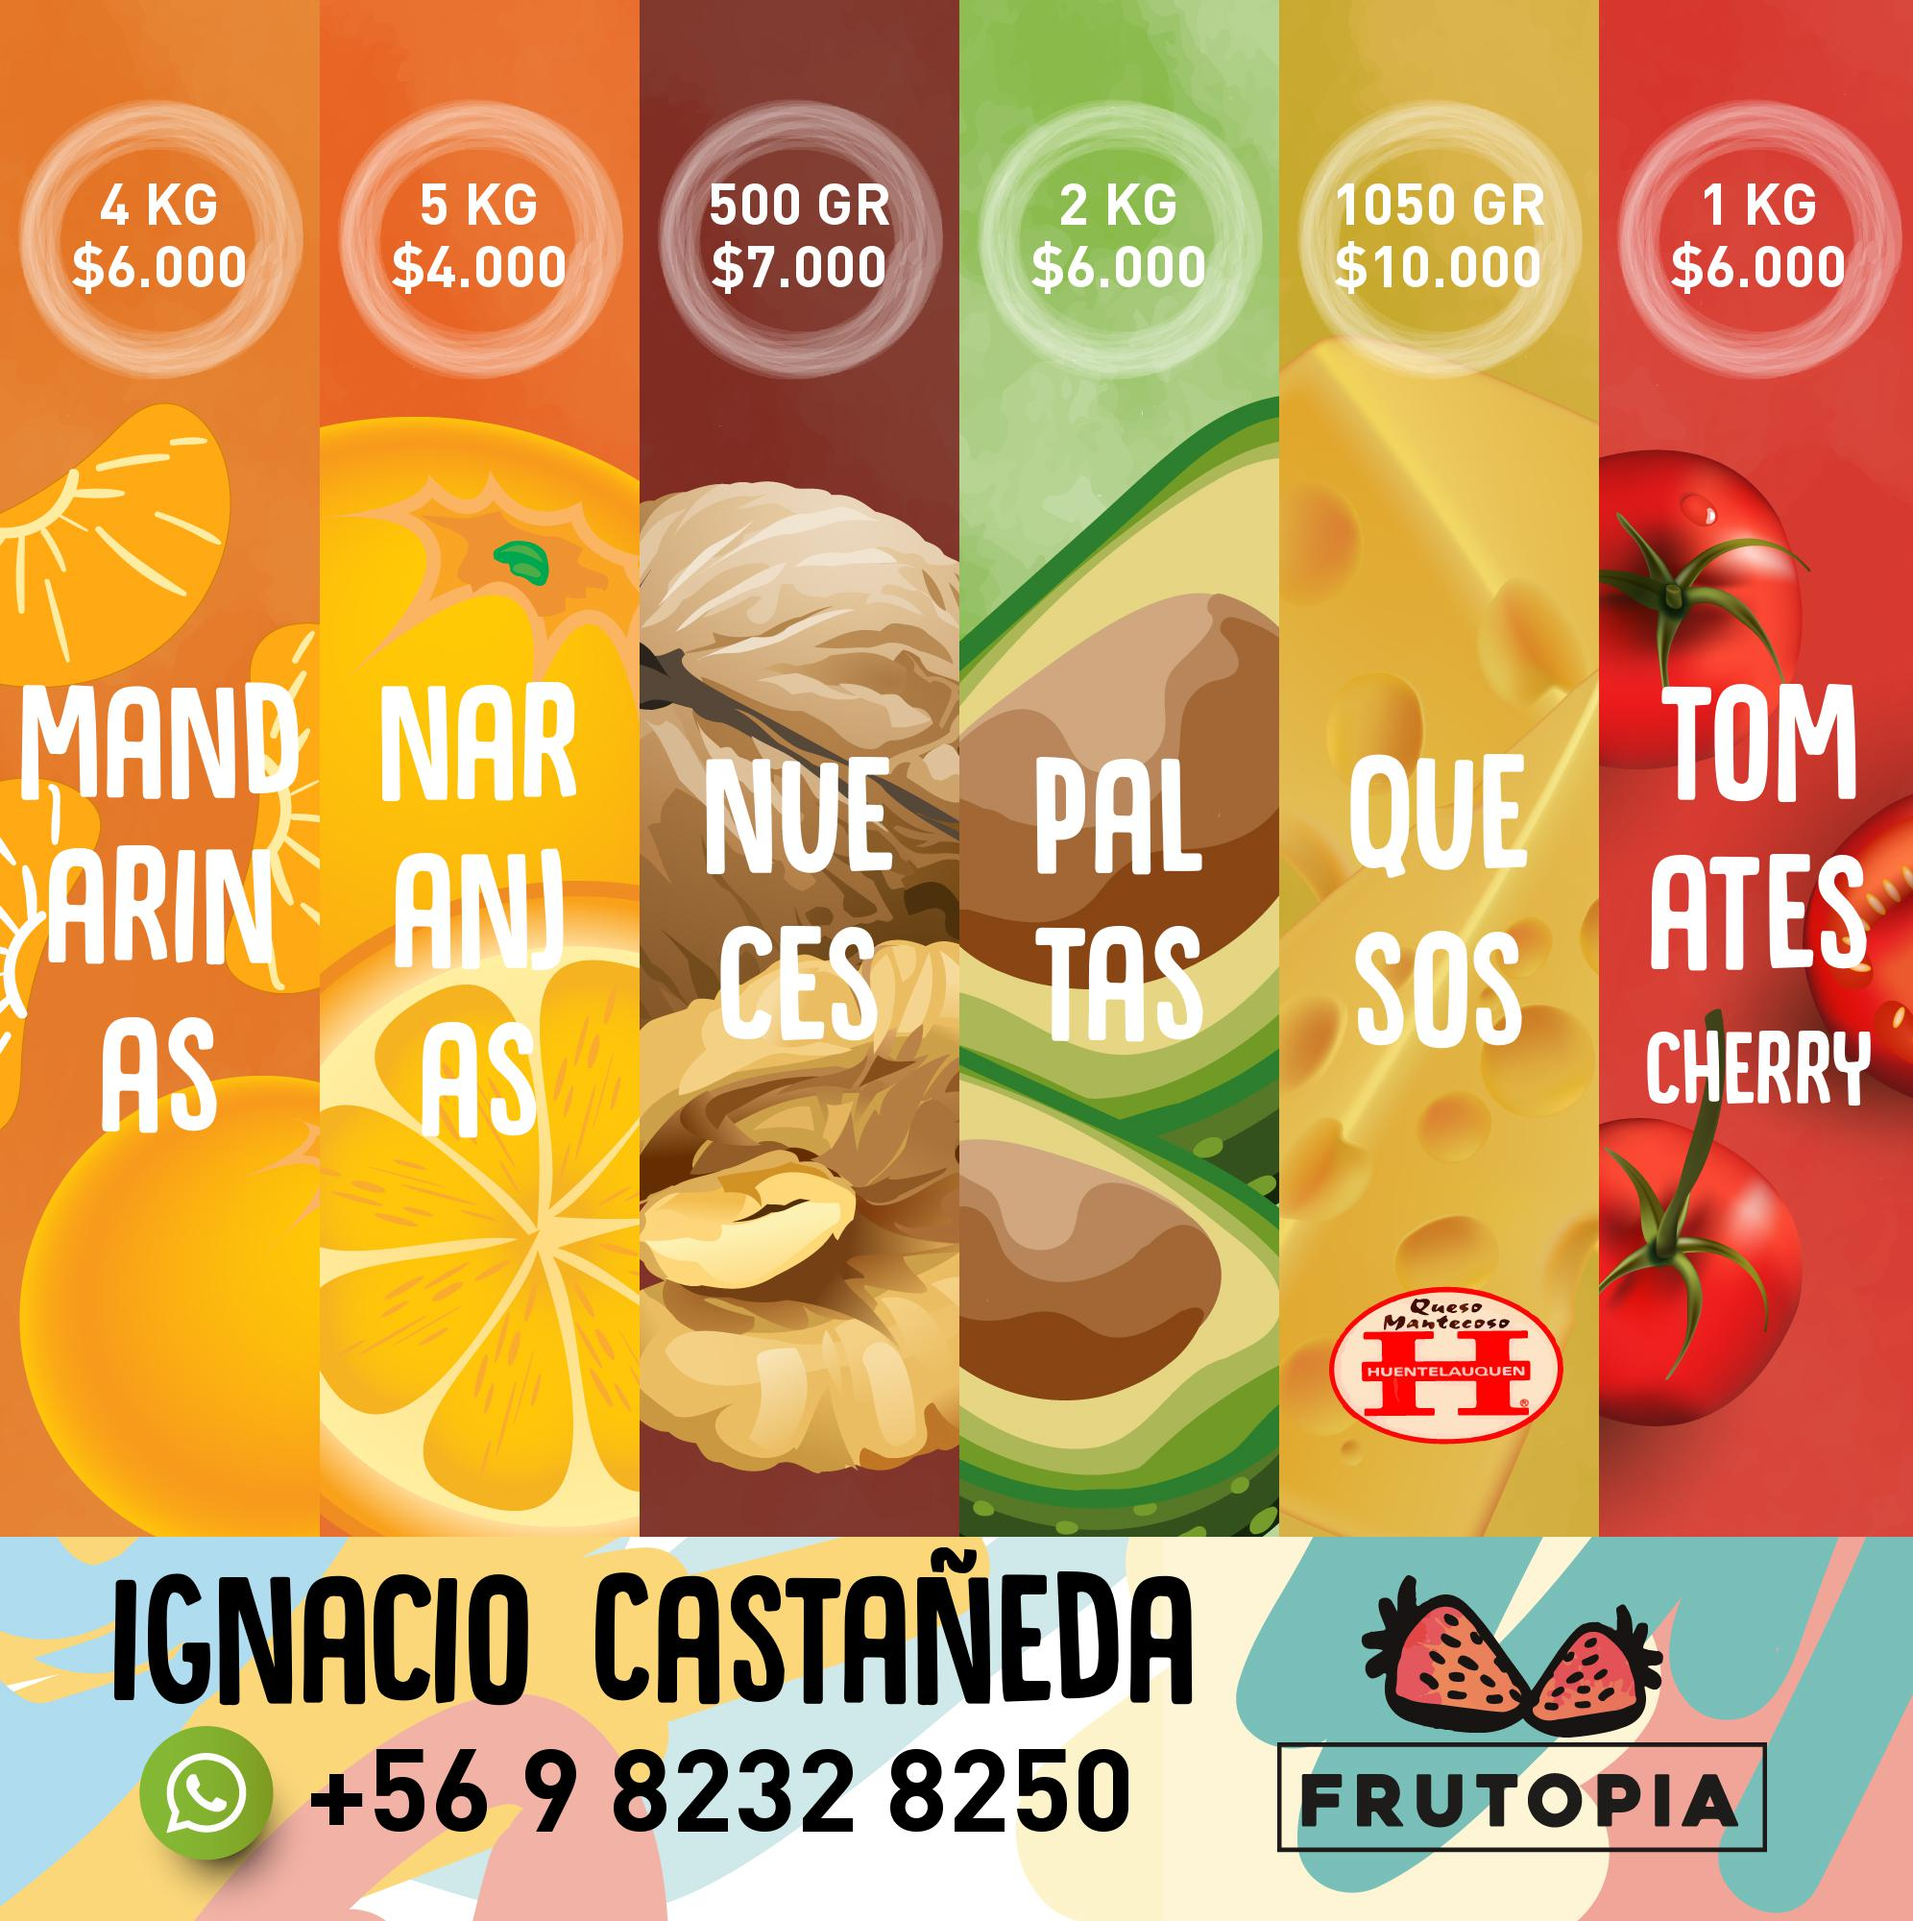
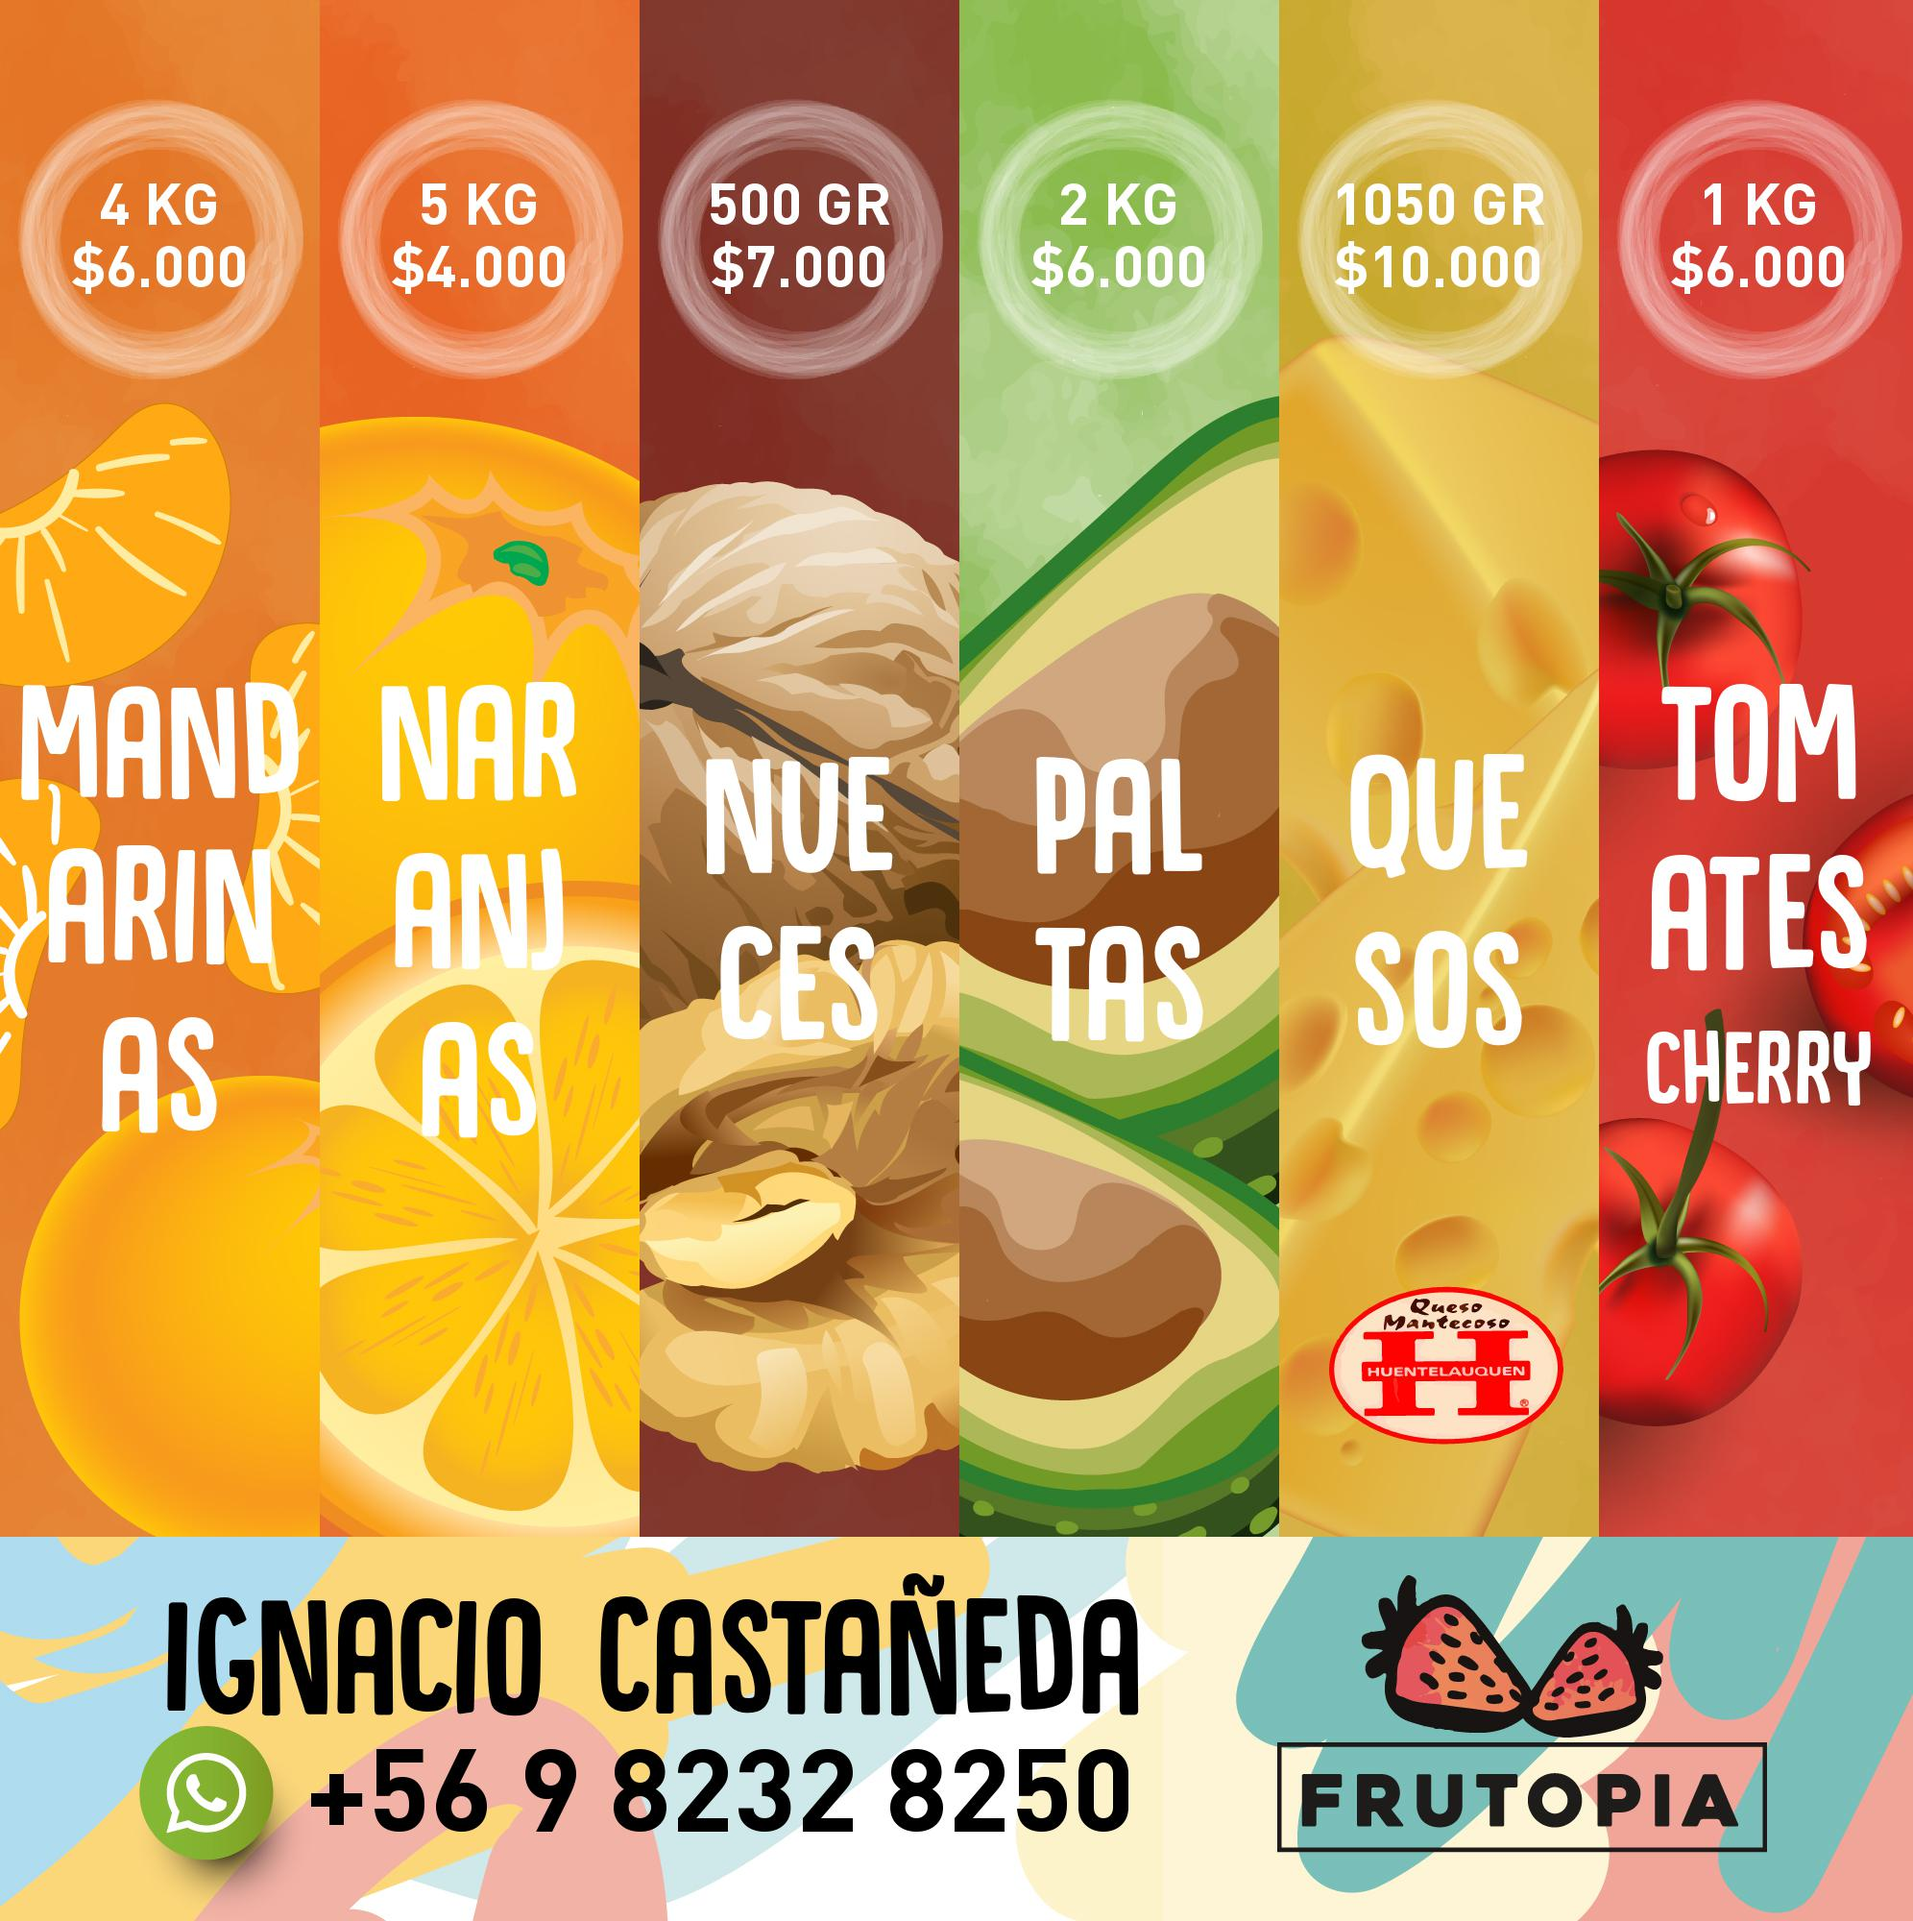
Letra

Changed region(s): [[0.3112, 0.806, 0.6225, 0.899], [0.0622, 0.806, 0.2801, 0.899]]

diff --git a/grafica/difusion_multiple.py b/grafica/difusion_multiple.py
@@ -20,7 +20,7 @@ def crear_difusion_multiple(vendedor, productos):
     y_precio = y_formato + 150
     y_producto = 900
     x_nombre = 680
-    y_nombre = 1680
+    y_nombre = 1700
     x_telefono = 750
     y_telefono = 1785
     draw = ImageDraw.Draw(img)
@@ -107,7 +107,7 @@ def crear_difusion_multiple(vendedor, productos):
     telefono = str(telefono)[-8:]
     telefono = "+56 9 {} {}".format(telefono[:4],telefono[4:])
     nombre_completo = nombre + " " + apellido
-    s = 200
+    s = 180
     font_nombres = ImageFont.truetype("grafica/Fuentes/DK Canoodle.otf", s)
     while font_nombres.getsize(nombre_completo)[0] > 1200:
         font_nombres = ImageFont.truetype("grafica/Fuentes/DK Canoodle.otf", s)
